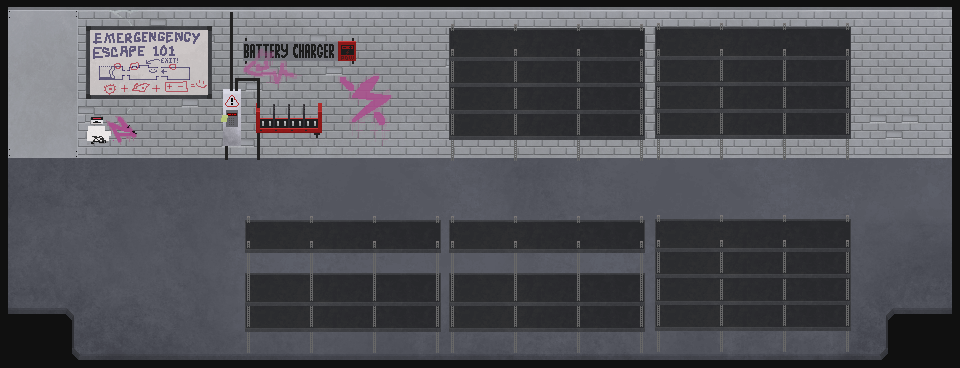
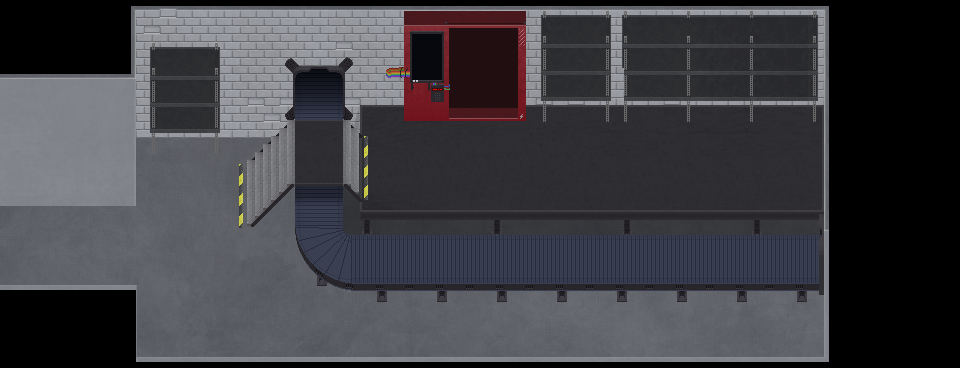
feat - Added new graphics for right room

diff --git a/src/main/java/nz/ac/auckland/se206/ChallengeTimer.java b/src/main/java/nz/ac/auckland/se206/ChallengeTimer.java
@@ -5,109 +5,71 @@ import javafx.concurrent.Task;
 import javafx.scene.control.Label;
 
 public class ChallengeTimer {
-  private static long timeLimit;
-  private static boolean timerActive = false;
-  private static long timePassed = 0;
   private static long startTime;
-  private static Label currentLabelTimer;
+  private static long endTime;
+  private static Label timerLabel;
+  private static boolean timerActive;
 
-  // This method starts the challenge timer.
-  public static void startTimer() {
+  public static void startTimer(long timeLimit, Label newTimerLabel) {
 
-    // Initializing variables...
-    timerActive = true;
+    // Initializing variables
     startTime = System.currentTimeMillis();
-    timeLimit = GameState.timeSetting;
+    endTime = startTime + timeLimit;
+    timerLabel = newTimerLabel;
+    timerActive = true;
+
     /* Multithreading is used so that the timer task doesn't
     cause the GUI to slow down or freeze.
-
     The timer continuously checks whether it has expired, and on each
     iteration it updates the GUI timer according to currentLabelTimer.
     */
-    Task<Void> timerTask =
-        new Task<Void>() {
 
+    Task<Void> countDown =
+        new Task<Void>() {
           @Override
           protected Void call() throws Exception {
-            while ((timePassed < timeLimit) && (timerActive)) {
-              timePassed = (System.currentTimeMillis() - startTime);
-              // Adding GUI updates to GUI queue.
+
+            while ((System.currentTimeMillis() < endTime) && (timerActive)) {
+
+              long remainingTime = endTime - System.currentTimeMillis();
+
               Platform.runLater(
                   () -> {
-                    currentLabelTimer.setText(
-                        // Calculating time formatting
+                    timerLabel.setText(
                         String.format(
                             "%02d:%02d",
-                            (((timeLimit - timePassed) / 1000) / 60),
-                            (((timeLimit - timePassed) / 1000) % 60)));
+                            (((remainingTime) / 1000) / 60), (((remainingTime) / 1000) % 60)));
                   });
-              // Thread sleeps to conserve resources while the timer is not incrementing
-              try {
-                Thread.sleep(64);
-              } catch (Exception e) {
-                System.err.println("ERROR: Exception in TimedScenario.startTimer!");
-                e.printStackTrace();
-              }
+
+              Thread.sleep(1000);
             }
 
-            // Lose case
-            if (timerActive) {
-              App.setRoot(SceneManager.AppUI.LOSE);
-            }
-
-            timePassed = 0;
             return null;
           }
         };
 
-    Thread timerThread = new Thread(timerTask);
+    Thread countDownThread = new Thread(countDown);
 
-    // Exception handelling for when there is no timer GUI element currently specified.
-    if (currentLabelTimer == null) {
-      System.out.println("WARNING: No timer assigned to TimedScenario.currentLabelTimer!");
+    if (timerLabel == null) {
+      System.err.println("WARNING: No timer assigned to TimedScenario.currentLabelTimer!");
     } else {
-      timerThread.start();
+      countDownThread.start();
     }
   }
 
   // This method resets the timer
   public static void cancelTimer() {
     // Game state finish time represents how much time was left on the clock when the player wins.
-    GameState.finishTime = (int) (timeLimit - (System.currentTimeMillis() - startTime)) / 1000;
-    System.out.println(GameState.finishTime);
+    long remainingTime = endTime - System.currentTimeMillis();
+    GameState.formattedFinishTime =
+        String.format(
+            "%02d:%02d", (((remainingTime) / 1000) / 60), (((remainingTime) / 1000) % 60));
+
     // TimerActive = false breaks the timer loop
     timerActive = false;
-    timePassed = 0;
-  }
-
-  // getRemainingTime returns how long is left on the clock.
-  public static long getRemainingTime() {
-    // Calculating remaining time on clock.
-    return timeLimit - timePassed;
-  }
-
-  public static void setCurrentLabelTimer(Label newLabelTimer, long newTimeLimit) {
-    // Setting the timer GUI element and initializing it with 0.
-    System.out.println("Setting timer label.");
-    currentLabelTimer = newLabelTimer;
-    timeLimit = newTimeLimit;
-    initializeLabel();
   }
 
   public static boolean isTimerActive() {
     return timerActive;
-  }
-
-  private static void initializeLabel() {
-    System.out.println("Initializing timer label.");
-
-    // The following code adds the timer GUI reset to the GUI queue
-    Platform.runLater(
-        () -> {
-          currentLabelTimer.setText(
-              String.format(
-                  // Formatting time limit
-                  "%02d:%02d", (((timeLimit) / 1000) / 60), (((timeLimit) / 1000) % 60)));
-        });
   }
 }

diff --git a/src/main/java/nz/ac/auckland/se206/controllers/Room3Controller.java b/src/main/java/nz/ac/auckland/se206/controllers/Room3Controller.java
@@ -3,6 +3,7 @@ package nz.ac.auckland.se206.controllers;
 import java.io.IOException;
 import javafx.animation.KeyFrame;
 import javafx.animation.Timeline;
+import javafx.animation.TranslateTransition;
 import javafx.fxml.FXML;
 import javafx.scene.Cursor;
 import javafx.scene.Node;
@@ -44,7 +45,7 @@ public class Room3Controller {
   @FXML private ImageView battery;
   @FXML private Rectangle shelvesPromptTrigger1;
   @FXML private Rectangle shelvesPromptTrigger2;
-  @FXML private Rectangle whiteboardPromptTrigger;
+  @FXML private ImageView imgSlidingDoor;
 
   private Color pinPadDark;
   private Color pinPadLight;
@@ -70,7 +71,6 @@ public class Room3Controller {
   @FXML
   public void initialize() throws ApiProxyException, IOException {
 
-    mouseInteract(whiteboardPromptTrigger);
     mouseInteract(shelvesPromptTrigger1);
     mouseInteract(shelvesPromptTrigger2);
     mouseInteract(pinPadOpen);
@@ -164,8 +164,12 @@ public class Room3Controller {
                   pinPadUi.setVisible(false);
                   pinTextField.setText(pinPadResolvedMessage);
                   ((TopBarController) SceneManager.getController(SceneManager.AppUI.TOPBAR))
-                      .giveItem(Item.SAW_BATTERY);
+                      .giveItem(Item.SAW_BROKEN);
                   battery.setOpacity(0);
+                  TranslateTransition openDoor =
+                      new TranslateTransition(Duration.millis(250), imgSlidingDoor);
+                  openDoor.setByX(70);
+                  openDoor.play();
                 }));
 
     lightsOff =
@@ -263,13 +267,5 @@ public class Room3Controller {
   @FXML
   public void shelvesPrompt(MouseEvent event) throws IOException {
     SceneManager.appendChatMessage("Huh, nothing of use in any of these five shelves...", "user");
-  }
-
-  @FXML
-  public void whiteboardPrompt(MouseEvent event) throws IOException {
-    SceneManager.appendChatMessage(
-        "Oh thank god, the escape drill class forgot to wipe down this whiteboard... Find saw"
-            + " battery... Find saw motor... Create saw blade. Got it.",
-        "user");
   }
 }

diff --git a/src/main/java/nz/ac/auckland/se206/controllers/Room1Controller.java b/src/main/java/nz/ac/auckland/se206/controllers/Room1Controller.java
@@ -55,6 +55,7 @@ public class Room1Controller {
   private boolean conveyorIsActive = false;
   private boolean sawDeposited = false;
   private boolean materialDeposited = true; // <--- CHANGE TO FALSE
+  private boolean repairComplete = false;
 
   @FXML
   public void initialize() throws ApiProxyException {
@@ -129,6 +130,8 @@ public class Room1Controller {
                 Duration.millis(396 * conveyorFrameRate),
                 e -> {
                   conveyorIsActive = false;
+                  repairComplete = true;
+                  triggerDropSaw.setCursor(Cursor.HAND);
                 }));
   }
 
@@ -144,12 +147,16 @@ public class Room1Controller {
 
   @FXML
   private void dropSaw(MouseEvent event) throws IOException {
-
-    if (App.topBarController.hasItem(TopBarController.Item.SAW_BODY)) {
-      App.topBarController.removeItem(TopBarController.Item.SAW_BODY);
+    if (repairComplete) {
+      imgConveyorSaw.setVisible(false);
+      App.topBarController.giveItem(TopBarController.Item.SAW_FIXED);
+      triggerDropSaw.setCursor(Cursor.DEFAULT);
+    } else if (App.topBarController.hasItem(TopBarController.Item.SAW_BROKEN)) {
+      App.topBarController.removeItem(TopBarController.Item.SAW_BROKEN);
       imgConveyorSaw.setVisible(true);
       takeBrokenSaw.play();
       activateConveyor(false);
+      triggerDropSaw.setCursor(Cursor.DEFAULT);
     }
   }
 
@@ -211,6 +218,11 @@ public class Room1Controller {
                   50, 0, imgMachineMoveX, 10 * repairBayFrameRate, 40 * repairBayFrameRate),
               App.getTranslateKeyFrame(
                   -50, 0, imgMachineMoveX, 10 * repairBayFrameRate, 50 * repairBayFrameRate),
+              new KeyFrame(
+                  Duration.millis(50 * repairBayFrameRate),
+                  e -> {
+                    imgConveyorSaw.setImage(new Image("/images/SAW_FIXED.png"));
+                  }),
               App.getTranslateKeyFrame(
                   50, 0, imgMachineMoveX, 10 * repairBayFrameRate, 60 * repairBayFrameRate),
               App.getTranslateKeyFrame(

diff --git a/src/main/java/nz/ac/auckland/se206/controllers/IntroController.java b/src/main/java/nz/ac/auckland/se206/controllers/IntroController.java
@@ -42,9 +42,7 @@ public class IntroController {
   private void startGame() throws IOException {
 
     /* Set challenge timer */
-    ChallengeTimer.setCurrentLabelTimer(
-        App.topBarController.getTimerLabel(), GameState.timeSetting);
-    ChallengeTimer.startTimer();
+    ChallengeTimer.startTimer(GameState.timeSetting, App.topBarController.getTimerLabel());
 
     /* This is the entry point for the game */
     App.setRoot(SceneManager.AppUI.IN_GAME);
@@ -135,6 +133,6 @@ public class IntroController {
     btnSixMin.setTextFill(Color.BLACK);
     btnFourMin.setTextFill(Color.BLACK);
     btnTwoMin.setTextFill(Color.RED);
-    GameState.timeSetting = 120000;
+    GameState.timeSetting = 10000;
   }
 }

diff --git a/src/main/java/nz/ac/auckland/se206/controllers/Room2Controller.java b/src/main/java/nz/ac/auckland/se206/controllers/Room2Controller.java
@@ -11,6 +11,7 @@ import javafx.scene.input.MouseEvent;
 import javafx.scene.shape.Rectangle;
 import javafx.util.Duration;
 import nz.ac.auckland.se206.App;
+import nz.ac.auckland.se206.ChallengeTimer;
 import nz.ac.auckland.se206.GameState;
 import nz.ac.auckland.se206.SceneManager;
 import nz.ac.auckland.se206.gpt.openai.ApiProxyException;
@@ -146,6 +147,7 @@ public class Room2Controller {
     if (App.topBarController.hasItem(TopBarController.Item.SAW_BODY)
         && App.topBarController.hasItem(TopBarController.Item.SAW_BLADE)
         && App.topBarController.hasItem(TopBarController.Item.SAW_BATTERY)) {
+      ChallengeTimer.cancelTimer();
       App.setRoot(SceneManager.AppUI.WIN);
     }
   }

diff --git a/src/main/java/nz/ac/auckland/se206/GameState.java b/src/main/java/nz/ac/auckland/se206/GameState.java
@@ -15,7 +15,7 @@ public class GameState {
   public static boolean isPasswordObtained = false;
 
   /** Indicates how much time the player had when they finished */
-  public static int finishTime = -1;
+  public static String formattedFinishTime;
 
   /** Points to the relevent room GUI timer label */
   public static Label roomTimerLabel;

diff --git a/src/main/java/nz/ac/auckland/se206/controllers/TopBarController.java b/src/main/java/nz/ac/auckland/se206/controllers/TopBarController.java
@@ -20,7 +20,9 @@ public class TopBarController {
   public enum Item {
     SAW_BODY,
     SAW_BLADE,
-    SAW_BATTERY
+    SAW_BATTERY,
+    SAW_BROKEN,
+    SAW_FIXED
   }
 
   private static int invLength;
